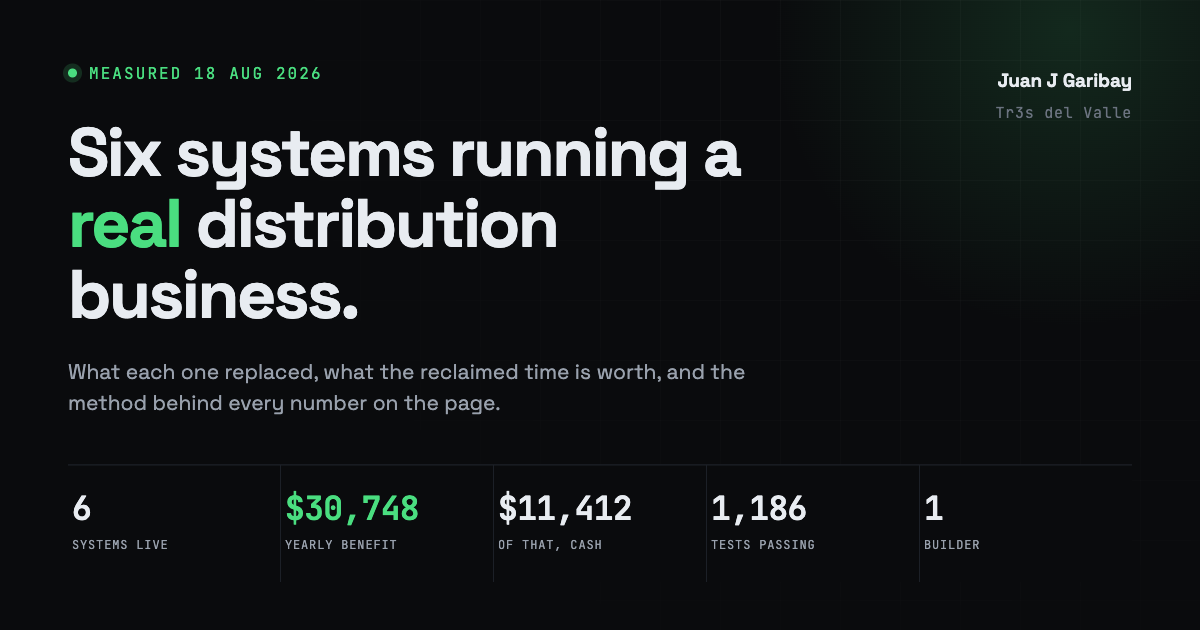
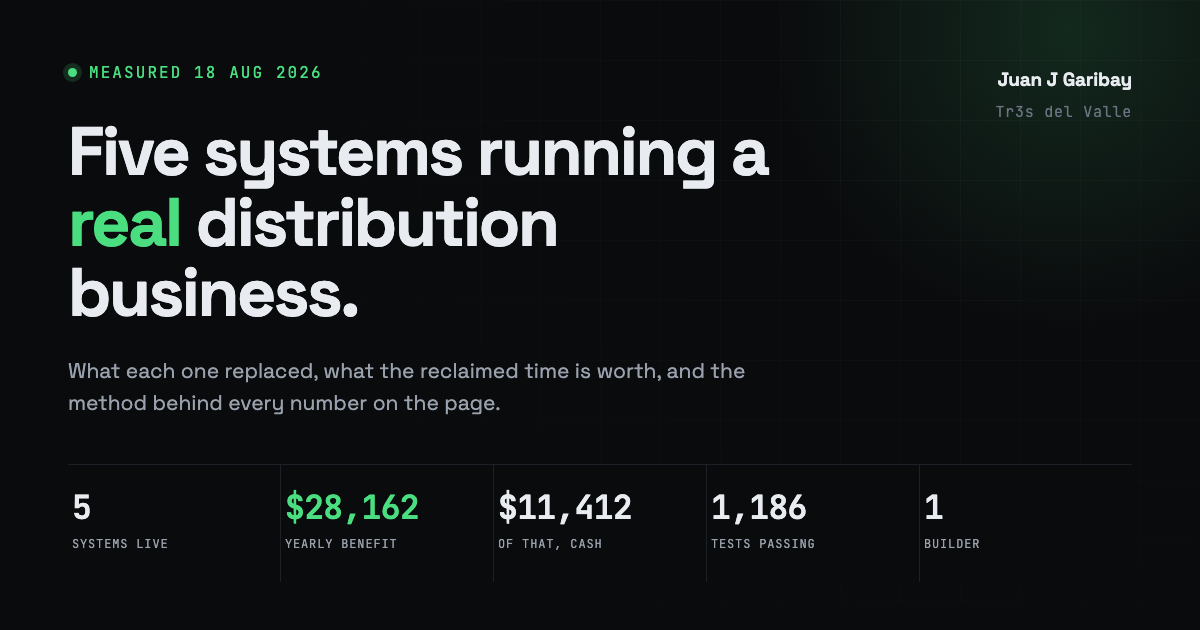
feat(site): quitar el sistema OIS y todo lo que reclamaba por el
El conector OIS nunca se termino y lo usan dos personas. Mostrar un sistema
a medias para poder cobrar sus $2,586 es justo lo que el resto de la pagina
argumenta en contra, asi que se van juntos.

La cuenta baja de verdad: 6 sistemas a 5, $30,748 a $28,162, y el titular
de 102% a 94%. Ya no dice que se paga solo, porque con lo que se muestra no
se paga solo.

El porcentaje ahora se deriva de las tarjetas en vez de escribirse a mano.
FUENTE dice 102%, pero eso cuenta el sexto sistema: volver a teclear esa
cifra habria dejado el titular reclamando un retorno que la pagina ya no
respalda. Es la misma falla de cifra duplicada que la guarda lleva cazando
todo este tiempo.

La guarda quedo mas estricta, porque al probarla no servia:
- el titular y las tarjetas de stats se revisan por separado; buscar en el
  documento entero pasaba cuando solo una de las dos copias estaba bien
- og-source.html entra a la guarda. Nadie lo abre, nadie lo recarga, y su
  contenido termina dentro de un PNG: seguia diciendo seis sistemas y
  $30,748. Es la superficie mas propensa a rancearse de todo el repo
- se verifica que lo mostrado mas lo excluido de $30,748

Reservas de layout re-medidas en navegador a 375 y 1440. CLS 0, el hueco
bajo la reja quedo en 0px.

Verificado contra git: rutero tiene dos identidades de autor con el mismo
correo, asi que 'sole author (git shortlog)' se lee falso para quien corra
ese comando. Ahora cita 'git shortlog -sne', que si lo prueba.

diff --git a/index.html b/index.html
@@ -3,10 +3,10 @@
   <head>
     <meta charset="utf-8" />
     <meta name="viewport" content="width=device-width, initial-scale=1" />
-    <title>Juan J Garibay — Six systems, measured</title>
+    <title>Juan J Garibay — Five systems, measured</title>
     <meta
       name="description"
-      content="Six systems running a real distribution business — what each one replaced, and what the reclaimed time is worth every month."
+      content="Five systems running a real distribution business — what each one replaced, and what the reclaimed time is worth every month."
     />
     <meta name="color-scheme" content="dark" />
     <meta name="theme-color" content="#0a0b0d" />
@@ -15,10 +15,10 @@
     <meta property="og:type" content="website" />
     <meta property="og:site_name" content="Juan J Garibay" />
     <meta property="og:url" content="https://juan-garibay-portfolio.vercel.app/" />
-    <meta property="og:title" content="Juan J Garibay — Six systems, measured" />
+    <meta property="og:title" content="Juan J Garibay — Five systems, measured" />
     <meta
       property="og:description"
-      content="Six systems running a real distribution business, with the evidence behind each one."
+      content="Five systems running a real distribution business, with the evidence behind each one."
     />
     <!-- Card regenerated from og-source.html whenever the headline figures move,
          so the preview can never drift from the page it advertises. -->
@@ -27,13 +27,13 @@
     <meta property="og:image:height" content="630" />
     <meta
       property="og:image:alt"
-      content="Six systems running a real distribution business — 6 systems live, $30,748 yearly benefit, $11,412 of that cash, 1,186 tests passing, 1 builder."
+      content="Five systems running a real distribution business — 5 systems live, $28,162 yearly benefit, $11,412 of that cash, 1,186 tests passing, 1 builder."
     />
     <meta name="twitter:card" content="summary_large_image" />
-    <meta name="twitter:title" content="Juan J Garibay — Six systems, measured" />
+    <meta name="twitter:title" content="Juan J Garibay — Five systems, measured" />
     <meta
       name="twitter:description"
-      content="Six systems running a real distribution business, with the evidence behind each one."
+      content="Five systems running a real distribution business, with the evidence behind each one."
     />
     <meta name="twitter:image" content="https://juan-garibay-portfolio.vercel.app/img/og.png" />
 
@@ -161,20 +161,6 @@
                   "dateCreated": "2026-08-11",
                   "dateModified": "2026-08-18"
                 }
-              },
-              {
-                "@type": "ListItem",
-                "position": 7,
-                "item": {
-                  "@type": "SoftwareApplication",
-                  "name": "Data layer & OIS connectors",
-                  "description": "The connectors and canonical data model the other systems depend on. Partly built.",
-                  "applicationCategory": "BusinessApplication",
-                  "operatingSystem": "Web",
-                  "creator": { "@id": "#person" },
-                  "dateCreated": "2026-07-09",
-                  "dateModified": "2026-08-13"
-                }
               }
             ]
           }
@@ -212,16 +198,16 @@
              for it, and gives a scriptless reader the real headline. `npm run
              check` fails if these figures drift from data.js. -->
         <h1 class="hero-title" id="hero-title">
-          6 systems running a distribution business. $30,748 a year returned. They pay 102% of the
+          5 systems running a distribution business. $28,162 a year returned. They pay 94% of the
           salary that built them.
         </h1>
         <div class="stat-strip" id="stat-strip">
           <div class="stat">
-            <div class="stat-value">6</div>
+            <div class="stat-value">5</div>
             <div class="stat-label">Systems in the business</div>
           </div>
           <div class="stat">
-            <div class="stat-value">$30,748</div>
+            <div class="stat-value">$28,162</div>
             <div class="stat-label">Recurring benefit, yearly</div>
           </div>
           <div class="stat">
@@ -233,7 +219,7 @@
             <div class="stat-label">Agency quote to replace, year 1</div>
           </div>
           <div class="stat">
-            <div class="stat-value stat-value--accent">102%</div>
+            <div class="stat-value stat-value--accent">94%</div>
             <div class="stat-label">Of salary, paid back yearly</div>
           </div>
         </div>
@@ -313,14 +299,6 @@
               A swipe-driven learning feed that installs to the home screen and works offline.
               9,362 lines, 119 commits, Aug 11 – 18 2026. Live at
               <a href="https://currents-weld.vercel.app/" rel="noopener noreferrer">currents-weld.vercel.app</a>.
-            </p>
-          </article>
-          <article class="footnote">
-            <h3>Data layer &amp; OIS connectors — data infrastructure</h3>
-            <p>
-              The connectors and canonical data model the other systems depend on. Partly built:
-              the full creation flow into the warehouse system is unfinished. 1,471 lines,
-              Jul 9 – Aug 13 2026. Contract estimate $6,840.
             </p>
           </article>
           <p class="footnote">
@@ -464,7 +442,7 @@
         <h2 class="section-title">05 — How these numbers were made</h2>
         <p class="footnote text-muted" id="evidence-note">
           Measured from git history, the file system and Claude Code session transcripts, all read
-          on 2026-08-18. Line counts use one method across all seven builds: authored source only,
+          on 2026-08-18. Line counts use one method across all six builds: authored source only,
           excluding dependencies, build output, third-party libraries and generated files. Counting
           another way moves these figures by up to three times, so the method travels with the
           number. Several systems are still in active development, so these are a snapshot rather
@@ -478,6 +456,15 @@
           <a href="https://github.com/jgaribay01/juan-garibay-portfolio" rel="noopener noreferrer" target="_blank">Read
           the source and the guard</a>: <code>npm run check</code> fails the build if any copy
           disagrees with the data file.
+        </p>
+
+        <p class="footnote">
+          One system is missing from this page on purpose. The source document counts six and puts
+          the base case at $30,748; this page shows five and $28,162. The sixth — the OIS connectors
+          and canonical data model — was never finished and is used by two people, so it comes off
+          along with the $2,586 it contributes. The headline percentage falls from 102% to 94%
+          because of it. Every total here is summed from the systems actually shown; nothing on this
+          page retypes the source total.
         </p>
 
         <p class="footnote text-muted">

diff --git a/js/data.js b/js/data.js
@@ -49,7 +49,8 @@ const PORTFOLIO = (() => {
 
   /**
    * Recurring benefit, taken lever by lever from FUENTE_DE_VERDAD.md section 3.
-   * The base case totals $30,748/year. Two things this model does that a simple
+   * The base case totals $30,748/year ACROSS SIX SYSTEMS — one more than this
+   * page presents; see EXCLUDED below. Two things this model does that a simple
    * hours-saved figure does not:
    *
    *  - It separates CASH ($11,412 — fuel and avoided shelf licences) from FREED
@@ -71,6 +72,27 @@ const PORTFOLIO = (() => {
       '28 August; OIS and quoting volumes are measured 11 September.',
   };
 
+  /**
+   * What this page does NOT show.
+   *
+   * FUENTE_DE_VERDAD.md §3 puts the base case at $30,748 across six systems.
+   * This page presents five. The sixth — the OIS connectors and canonical data
+   * model — was never finished: the creation flow into the warehouse system
+   * stops short, and it is used by two people. Showing a half-built system in
+   * order to claim its $2,586 would be the exact move the rest of this page
+   * argues against, so both come off together.
+   *
+   * Every total here is summed from the systems actually shown, and nothing on
+   * this page retypes the source total — so the two cannot silently diverge.
+   */
+  const EXCLUDED = {
+    name: 'Data layer & OIS connectors',
+    annualUsd: 2586,
+    sourceTotal: 30748,
+    sourceSystems: 6,
+    reason: 'unfinished, and used by two people',
+  };
+
   /** What replacing this capability would cost, per FUENTE_DE_VERDAD.md §5. */
   const REPLACEMENT = {
     juanYear1: 30000, juanYear3: 90000,
@@ -78,7 +100,11 @@ const PORTFOLIO = (() => {
     employeeYear1: 180550, employeeYear3: 491050,
     agencyMaintenanceAnnual: 63000,
     rampMonths: '13 to 15',
-    payingPercentOfSalary: 102,
+    // The share of salary these systems pay back is DERIVED from the systems on
+    // this page (see render.js), never typed here. FUENTE §5 states 102%, but
+    // that counts the sixth system this page excludes — retyping it would have
+    // left the headline claiming a return the page no longer shows. That is the
+    // same duplicated-figure failure as every other bug the guard has caught.
   };
 
   /** One-off costs already avoided, per §4. Market value, NOT cash saved. */
@@ -159,7 +185,7 @@ const PORTFOLIO = (() => {
       loc: 63036,
       commits: 267,
       tests: 1186,
-      verified: '267 commits over 21 days, sole author (git shortlog), 18 Aug 2026',
+      verified: '267 commits over 21 days, one author by email (git shortlog -sne), 18 Aug 2026',
       stack: ['TypeScript', 'React', 'Vite', 'Node', 'Supabase', 'Docker', 'Mapbox', 'Vercel'],
       estimatedBuildHours: 480,
       estimateBasis:
@@ -369,39 +395,6 @@ const PORTFOLIO = (() => {
         'Currents running on a phone: a full-screen learning card from the feed, with the topic ' +
         'tabs, card counter and swipe affordance visible.',
     },
-    {
-      id: 'ois-data-layer',
-      name: 'Data layer & OIS connectors',
-      cat: 'Data infrastructure',
-      desc: 'The connectors and canonical data model the other systems depend on. Partly built.',
-      status: 'Partly built',
-      url: null,
-      period: { from: '2026-07-09', to: '2026-08-13' },
-      activeDays: 6,
-      loc: 1471,
-      commits: null,
-      tests: null,
-      verified: 'Authored on this machine, no version control; system #6 in FUENTE_DE_VERDAD.md',
-      stack: ['Node', 'Playwright', 'n8n', 'Chrome MV3', 'Python', 'SQLite'],
-      estimatedBuildHours: 72,
-      estimateBasis:
-        'Browser automation against the warehouse product form, a Sheets-to-OIS connector, and ' +
-        'the machine-wide file index behind the canonical data model.',
-      before: 'Every product keyed into the warehouse system by hand',
-      after: 'Form filled from the workflow — a human still clicks Save',
-      benefit: {
-        annualUsd: 2586,
-        cashUsd: 0,
-        levers: [
-          { name: 'Monthly sales close', annualUsd: 1008, kind: 'hours' },
-          { name: 'Cost of carrying receivables', annualUsd: 830, kind: 'hours' },
-          { name: 'OIS recapture and product creation', annualUsd: 748, kind: 'hours' },
-        ],
-        was: 'manual keying and month-end reconciliation',
-        now: 'connectors, with the flow still to be completed',
-      },
-      openRisk: 'Declared "a medias" in FUENTE_DE_VERDAD — the full OIS creation flow is unfinished.',
-    },
   ];
 
   /** Cloned to run and learn from, not authored. Listed for honesty. */
@@ -583,6 +576,7 @@ const PORTFOLIO = (() => {
     HOURLY_RATE,
     RATES: Object.freeze(RATES),
     BENEFIT: Object.freeze(BENEFIT),
+    EXCLUDED: Object.freeze(EXCLUDED),
     REPLACEMENT: Object.freeze(REPLACEMENT),
     AVOIDED: Object.freeze(AVOIDED),
     SPEND: Object.freeze(SPEND),

diff --git a/css/page.css b/css/page.css
@@ -173,7 +173,7 @@ html { scroll-behavior: smooth; }
   display: grid;
   grid-template-columns: 1fr;
   gap: var(--space-4);
-  min-height: 6091px;
+  min-height: 4917px;
 }
 .project {
   position: relative;
@@ -287,7 +287,7 @@ html { scroll-behavior: smooth; }
   grid-template-columns: 1fr;
   gap: var(--space-8);
   align-items: start;
-  min-height: 1247px;
+  min-height: 1142px;
 }
 .cost-heading {
   font-family: var(--font-mono);
@@ -430,20 +430,20 @@ html { scroll-behavior: smooth; }
   .stat-strip { min-height: 351px; }
   .stat-strip--cost { min-height: 333px; }
   .cost-split { min-height: 1038px; }
-  .project-grid { min-height: 5491px; }
+  .project-grid { min-height: 4729px; }
 }
 
 @media (min-width: 560px) {
   .stat-strip { min-height: 333px; }
   .cost-split { min-height: 1017px; }
-  .project-grid { min-height: 5331px; }
+  .project-grid { min-height: 4569px; }
 }
 
 @media (min-width: 700px) {
   .stat-strip,
   .stat-strip--cost { min-height: 223px; }
   .cost-split { min-height: 975px; }
-  .project-grid { min-height: 5158px; }
+  .project-grid { min-height: 4436px; }
 }
 
 @media (min-width: 900px) {
@@ -451,7 +451,7 @@ html { scroll-behavior: smooth; }
   .stat-strip { min-height: 240px; }
   .project-grid {
     grid-template-columns: repeat(2, 1fr);
-    min-height: 3243px;
+    min-height: 2477px;
   }
   .cost-split { grid-template-columns: 1.1fr 1fr; min-height: 604px; }
 }
@@ -459,7 +459,7 @@ html { scroll-behavior: smooth; }
 @media (min-width: 1100px) {
   .stat-strip { min-height: 130px; }
   .stat-strip--cost { min-height: 112px; }
-  .project-grid { min-height: 3139px; }
+  .project-grid { min-height: 2374px; }
   .cost-split { min-height: 542px; }
 }
 
@@ -657,6 +657,12 @@ html { scroll-behavior: smooth; }
    above-the-fold content forces the browser to evaluate containment before
    first paint, which costs more than it saves.
 
+   Measured in a real browser with the reserves neutralised, at the NARROWEST
+   width in each range, because that is where content is tallest: 375px for the
+   base rules and 1440px for the >=900 block. Measuring wider under-reserves and
+   the section grows as it scrolls into view. Re-measure the same way or the
+   numbers are not comparable.
+
    The paired `contain-intrinsic-size` is mandatory — without it an off-screen
    section collapses to zero height and the scrollbar jumps as you scroll. The
    values are measured, and the `auto` keyword lets the browser replace them
@@ -673,17 +679,17 @@ html { scroll-behavior: smooth; }
    pass used heights taken before the source-link paragraph was added, which
    left #honesty 165px short — an estimate that is wrong is worse than none,
    because the page jumps when the section is finally rendered. */
-#hard { contain-intrinsic-size: auto 4996px; }
-#numbers { contain-intrinsic-size: auto 2082px; }
-#cost { contain-intrinsic-size: auto 1821px; }
-#honesty { contain-intrinsic-size: auto 663px; }
+#hard { contain-intrinsic-size: auto 5189px; }
+#numbers { contain-intrinsic-size: auto 1807px; }
+#cost { contain-intrinsic-size: auto 1842px; }
+#honesty { contain-intrinsic-size: auto 912px; }
 #contact { contain-intrinsic-size: auto 311px; }
 
 @media (min-width: 900px) {
   #hard { contain-intrinsic-size: auto 3163px; }
-  #numbers { contain-intrinsic-size: auto 914px; }
-  #cost { contain-intrinsic-size: auto 800px; }
-  #honesty { contain-intrinsic-size: auto 452px; }
+  #numbers { contain-intrinsic-size: auto 826px; }
+  #cost { contain-intrinsic-size: auto 799px; }
+  #honesty { contain-intrinsic-size: auto 574px; }
   #contact { contain-intrinsic-size: auto 402px; }
 }
 

diff --git a/js/render.js b/js/render.js
@@ -89,6 +89,11 @@
   // to the total: the $830 cost of carrying receivables is neither.
   totals.freedHours = BENEFIT.freedHoursAnnual;
   totals.otherBenefit = totals.annualBenefit - totals.cashBenefit - totals.freedHours;
+
+  // Derived, not typed. The source document's 102% counts a system this page
+  // does not show, and a hand-copied percentage is how every other figure here
+  // went stale.
+  totals.paybackPercent = Math.round((totals.annualBenefit / REPLACEMENT.juanYear1) * 100);
   totals.netPerMonth = totals.monthlyBenefit - SPEND.actualUsd;
   totals.multiple = totals.monthlyBenefit / SPEND.actualUsd;
   totals.paybackDays = (SPEND.actualUsd / totals.monthlyBenefit) * 30;
@@ -99,7 +104,7 @@
     mount('hero-title').textContent =
       `${totals.projects} systems running a distribution business. ` +
       `${usd(totals.annualBenefit)} a year returned. They pay ` +
-      `${REPLACEMENT.payingPercentOfSalary}% of the salary that built them.`;
+      `${totals.paybackPercent}% of the salary that built them.`;
 
     const stats = [
       { value: String(totals.projects), label: 'Systems in the business' },
@@ -107,7 +112,7 @@
       { value: usd(totals.cashBenefit), label: 'Of that, cash' },
       { value: usd(REPLACEMENT.agencyYear1), label: 'Agency quote to replace, year 1' },
       {
-        value: `${REPLACEMENT.payingPercentOfSalary}%`,
+        value: `${totals.paybackPercent}%`,
         label: 'Of salary, paid back yearly',
         accent: true,
       },

diff --git a/og-source.html b/og-source.html
@@ -153,7 +153,7 @@
 
     <div class="top">
       <div class="kicker">Measured 18 Aug 2026</div>
-      <h1>Six systems running a <em>real</em> distribution business.</h1>
+      <h1>Five systems running a <em>real</em> distribution business.</h1>
       <p class="sub">
         What each one replaced, what the reclaimed time is worth, and the method behind every
         number on the page.
@@ -162,11 +162,11 @@
 
     <div class="stats">
       <div class="stat">
-        <div class="stat-value">6</div>
+        <div class="stat-value">5</div>
         <div class="stat-label">Systems live</div>
       </div>
       <div class="stat">
-        <div class="stat-value accent">$30,748</div>
+        <div class="stat-value accent">$28,162</div>
         <div class="stat-label">Yearly benefit</div>
       </div>
       <div class="stat">
